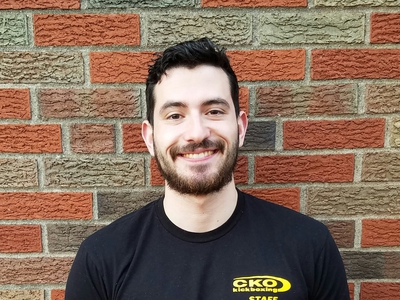
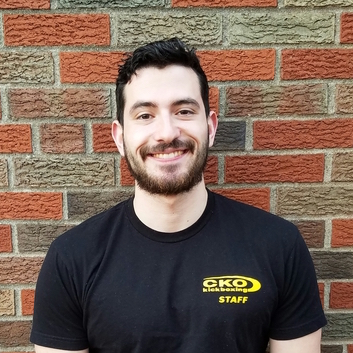
Update Images
Change the images being used

diff --git a/index.html b/index.html
@@ -52,19 +52,19 @@
 		<!--This is the bottom 3 images, with their names and links-->
 		<div class="row text-center">
 			<div class="col-sm-4">
-				<img class="img-responsive" src="images/CKO.jpg" alt="Udacity Profile">
+				<img class="img-responsive small-images" src="images/CKO.jpg" alt="Udacity Profile">
 				<!-- ADD srcset="images/Udacity.png2x 2x" -->
 				<h4>Udacity Profile</h4>
 				<a href="https://profiles.udacity.com/u/edit">https://profiles.udacity.com/u/edit</a>
 			</div>
 			<div class="col-sm-4">
-				<img class="img-responsive" src="images/Linkedin.jpg" alt="Linkedin Profile">
+				<img class="img-responsive small-images" src="images/Linkedin.jpg" alt="Linkedin Profile">
 				<!-- ADD srcset="images/Linkedin.png2x 2x" -->
 				<h4>Linkedin Profile</h4>
 				<a href="https://www.linkedin.com/in/daniel-laurence-997969a0">https://www.linkedin.com/in/daniel-laurence-997969a0</a>
 			</div>
 			<div class="col-sm-4">
-				<img class="img-responsive" src="images/GitHub_small.png" alt="GitHub">
+				<img class="img-responsive small-images" src="images/GitHub_small.png" alt="GitHub">
 				<!-- ADD srcset="images/GitHub.png2x 2x" -->
 				<h4>GitHub Profile</h4>
 				<a href="https://github.com/dlaurence269/">https://github.com/dlaurence269/</a>

diff --git a/main.css b/main.css
@@ -22,10 +22,10 @@ hr {
 
 img {
 	width: 100%;
-	max-width: 100%;
 }
 
-.col-sm-4 {
-	margin: auto;
+.small-images {
+	max-width: 400px;
+	margin: 0 auto;
 }
 
